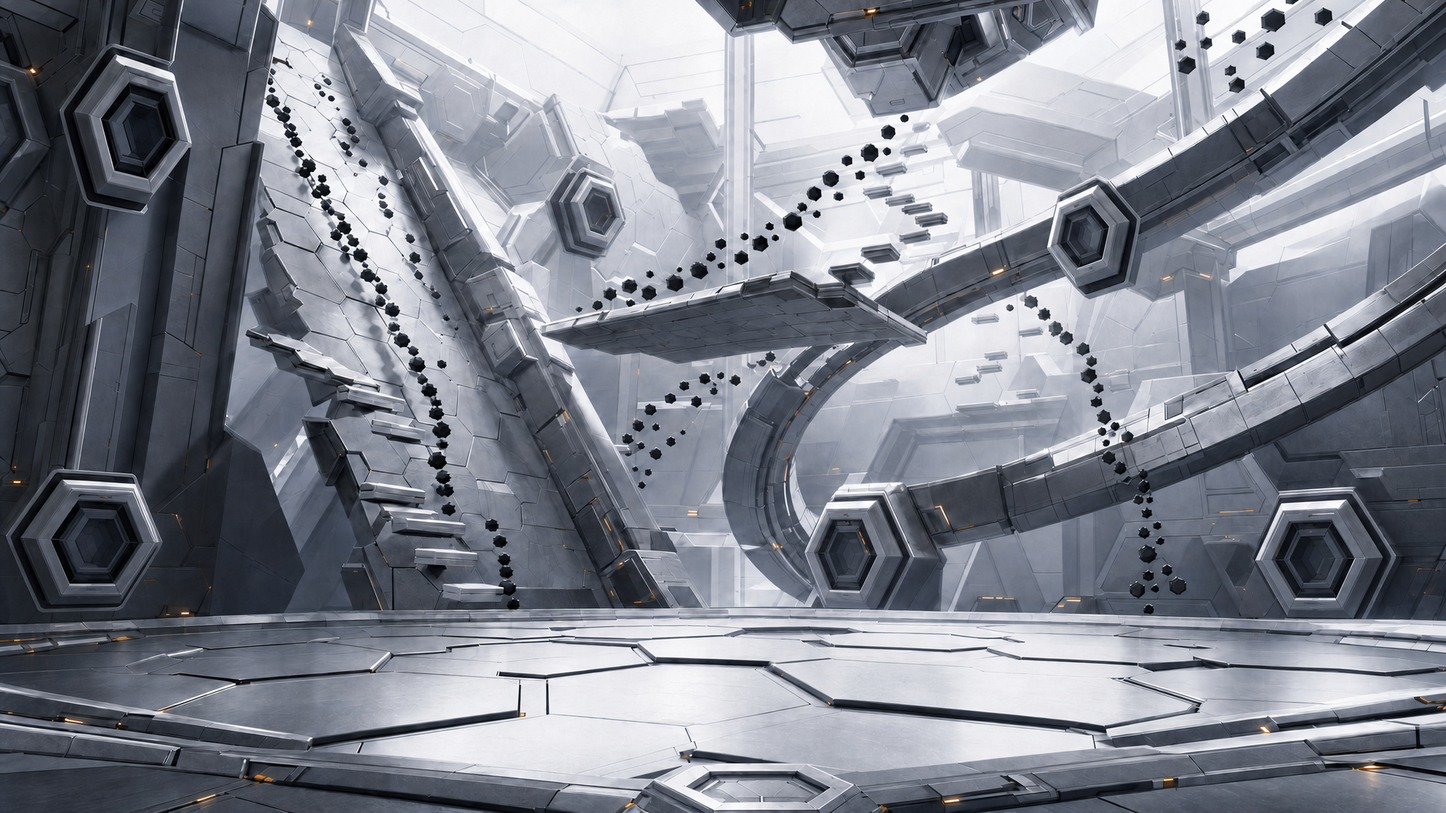
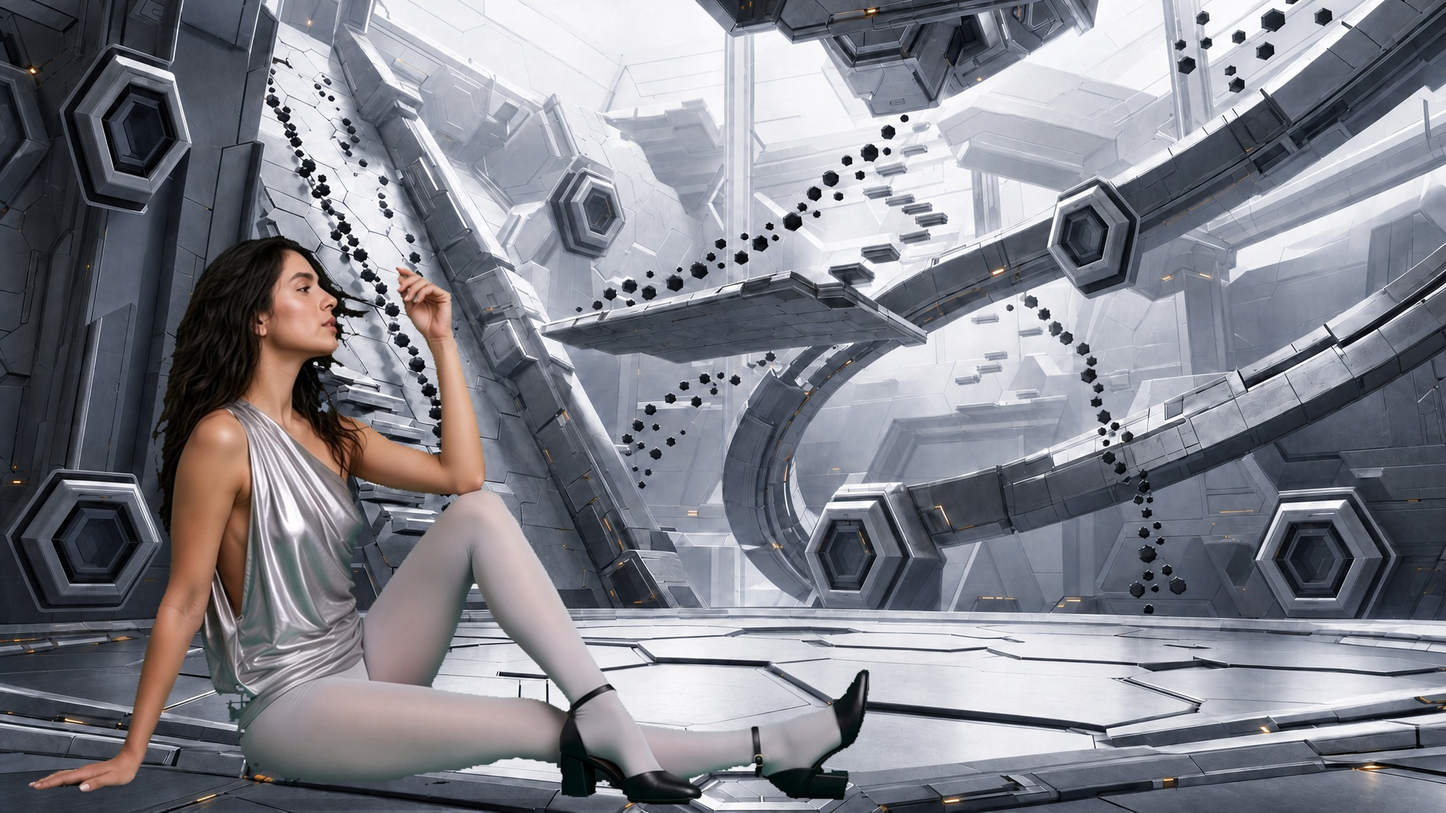
Add the liquid-geo-temple hour 17 and 18 figures.

Changed region(s): [[0.0312, 0.2792, 0.625, 0.9926], [0.2812, 0.9926, 0.3125, 1.0]]

diff --git a/images/liquid-geo-temple/README.md b/images/liquid-geo-temple/README.md
@@ -76,11 +76,19 @@ actor faces, readable UI, or logos. `krypton-liquid-geo.md` and
 
 ### 已接受的 19–20 空景（2026-10-02）
 
-`19-v2.png` 呈現井上的巨大不對稱重構拱；`20-v2.png` 呈現六角板層逐層瓦解、向深渦心下降。兩張皆由模型直接輸出 `2048×1152` sRGB PNG、high 品質，保留近處承載面。試作、前代與提示保存在 `_trials/`；詳見 [檢視紀錄](_trials/19-20-scenes-review.md)。使用者已接受兩張設計；正式 `19.jpg`＝`_trials/19-v2.jpg`、`20.jpg`＝`_trials/20-v2.jpg`，皆依整合流程放大為 `3840×2160` sRGB JPG、quality 92，來源並非原生 4K。舊 19–21 已備份，21 拆成獨立檔並保留原畫面；16–18 的空景保持已接受版本。16 的正式檔已放入 `v11` 人物；17–20 仍是空景。
+`19-v2.png` 呈現井上的巨大不對稱重構拱；`20-v2.png` 呈現六角板層逐層瓦解、向深渦心下降。兩張皆由模型直接輸出 `2048×1152` sRGB PNG、high 品質，保留近處承載面。試作、前代與提示保存在 `_trials/`；詳見 [檢視紀錄](_trials/19-20-scenes-review.md)。使用者已接受兩張設計；正式 `19.jpg`＝`_trials/19-v2.jpg`、`20.jpg`＝`_trials/20-v2.jpg`，皆依整合流程放大為 `3840×2160` sRGB JPG、quality 92，來源並非原生 4K。舊 19–21 已備份，21 拆成獨立檔並保留原畫面；16–18 的空景保持已接受版本。16 的正式檔已放入 `v11` 人物；17 的正式檔已放入 `v7` 人物；18 的正式檔已放入 `v7` 人物；19–20 仍是空景。
 
 ### 16 人物（2026-10-02，已接受 `v11`）
 
 正式 `16.jpg` 以已接受的 `16-v4` 空景為底，人物貼在承載環左側、不擋核心。深色上衣收到肩胛下緣，後腰與手臂同一套膚色；雙手在頭上交叉。淺色褲襪貼平，仍是塗層，大腿還沒有透出後腰的膚色。來源 `_trials/16-v11.jpg`（`2048×1152`），正式檔放大為 `3840×2160` sRGB、quality 92。空景備份 `_trials/16-before-character.jpg`。
+
+### 17 人物（2026-10-07，已接受 `v7`）
+
+正式 `17.jpg` 以已接受的 `17-v3` 空景為底。她側坐在左側六角地面，一腿沿地面伸出、另一膝彎著，兩鞋都在板上；近側手抬到頭旁，一綹髮橫過那隻手往側邊吹，另一手撐在身後地面，朝上看軌道。霜銀片仍蓋住近側，開口在背；近側下弧沒有落地。來源 `_trials/17-v7.jpg`（`2048×1152`），正式檔放大為 `_trials/17-v7-4k.jpg` 與 `17.jpg`，`3840×2160` sRGB、quality 92。前代 `17-v4` 留在 `_trials/`。空景備份 `_trials/17-before-character.jpg`。
+
+### 18 人物（2026-10-08，已接受 `v7`）
+
+正式 `18.jpg` 以踏面高度重畫井口，不是把人貼進 `18-v5` 的俯視空景。她坐在左側踏階，兩膝彎著，雙手撐在踏面，髮全部垂下，看鏡頭。胸前一條米色橫帶蓋住下弧；淺色褲襪蓋住髖和腿；黑色繞踝粗跟。踏面前方有一小圈六角環。左右兩側被畫成桌面圖示。來源 `_trials/18-v7.jpg`（`1280×720`），正式檔放大為 `_trials/18-v7-4k.jpg` 與 `18.jpg`，`3840×2160` sRGB、quality 92，來源低於 `2048×1152`。空景備份 `_trials/18-before-character.jpg`。`18-v6` 被擋，沒有圖。`v8`–`v12` 沒有取代 `v7`：`v11` 的側坐井緣與 `v12` 的肩上連環都不要當 19 的起點。
 
 ---
 
@@ -284,8 +292,8 @@ Still [ceiling so it does not overshoot].
 | `14` | 封閉銀廳、六角地面、足光。中景一根偏心的黑色六角珠弧 | 微微朝鏡頭的側立 | 看弧帶 | 銀布蓋住髖，下緣在大腿上段 | **正式** `14.jpg`＝`_trials/14-v48.jpg`（`3840×2160` sRGB）。空景備份 `_trials/14-before-character.jpg` |
 | `15` | **場景鎖定 `_trials/15-v8.png`**（`15-v8-prompt.txt`）。整廳均勻中性銀光。牆是分岔槍灰承重路徑，收成嵌套六邊插座，霜銀板錯層咬合；天花懸掛內嵌格柵，後面一大片漫射光。中景三條未閉合的細珠弧，相位錯開。地面六角板與下凹導槽 | 沿導槽朝鏡頭走來 | 看鏡頭 | 銀裙下緣在大腿上段 | **正式** `15.jpg`＝`_trials/15-v12.jpg`（`3840×2160` sRGB）。空景備份 `_trials/15-before-character.jpg`。廳稿 `15-v8.png`，前代 `15-v10.jpg`（斜肩帶胸片）、`15-v9.jpg` |
 | `16` | 過載承載環、接縫琥珀，廳仍足光 | 背四分之三，雙手在頭上交叉 | 看懸掛核心 | 上衣收到肩胛下緣；後腰露出。淺色褲襪貼平 | **已接受 `v11`。** 正式 `16.jpg` 以 `16-v4` 空景貼上人物。 |
-| `17` | 多重重力廳，翻起地面與展開平台 | 側坐，琥珀光掃腿 | 看核心或踏面 | 近側胸滑出胸片；遠側仍在片內 | **空景已接受。** 獨立正式 `17.jpg`＝`_trials/17-v3.jpg`。人物待加入。 |
-| `18` | 已重做圓牆近踏階，井外明亮，暗紅只在重力井 | 坐或靠在踏階 | 看暗紅重力井 | 胸片落在肘或踏階；雙胸入鏡；髖上無布 | **空景已接受。** 正式 `18.jpg`＝`_trials/18-v5.jpg`。人物待加入。 |
+| `17` | 多重重力廳，翻起地面與展開平台 | 側坐左側地面，一腿伸出、另一膝彎著；近側手抬到頭旁 | 看上方軌道 | 霜銀片仍蓋住近側，開口在背。一綹髮橫過抬起的手 | **已接受 `v7`。** 正式 `17.jpg`＝`_trials/17-v7-4k.jpg`，底是 `17-v3` 空景。 |
+| `18` | 踏面高度的井口，井外明亮，暗紅只在重力井 | 坐左側踏階，兩膝彎著，雙手撐在踏面 | 看鏡頭 | 米色橫帶蓋住胸的下弧。淺色褲襪蓋住髖和腿。踏面前方一小圈六角環。兩側畫成桌面圖示 | **已接受 `v7`。** 正式 `18.jpg`＝`_trials/18-v7-4k.jpg`。來源 `1280×720`。空景備份 `_trials/18-before-character.jpg`。 |
 | `19` | 圓牆內側 | 正面微側，雙膝分開，整個人一起轉 | 看鏡頭 | 三角膜沉積掉，裸膚與腰同一套。回扣 `13` 的開膝 | **空景已接受。** 正式 `19.jpg`＝`_trials/19-v2.jpg`。人物待加入。 |
 | `20` | 塌縮渦緣；緣上的身體讀得見，坑可以暗 | 坐渦緣，雙膝沿石環分開 | 看渦 | 胸片躺在石緣；一側襪卷到膝 | **空景已接受。** 正式 `20.jpg`＝`_trials/20-v2.jpg`。人物待加入。 |
 | `21` | 同渦 | 渦緣背四分之三站 | 不看鏡頭 | 臀下弧 | 已拆為獨立檔，保留舊 20 空景；新場景與人物待設計。 |
